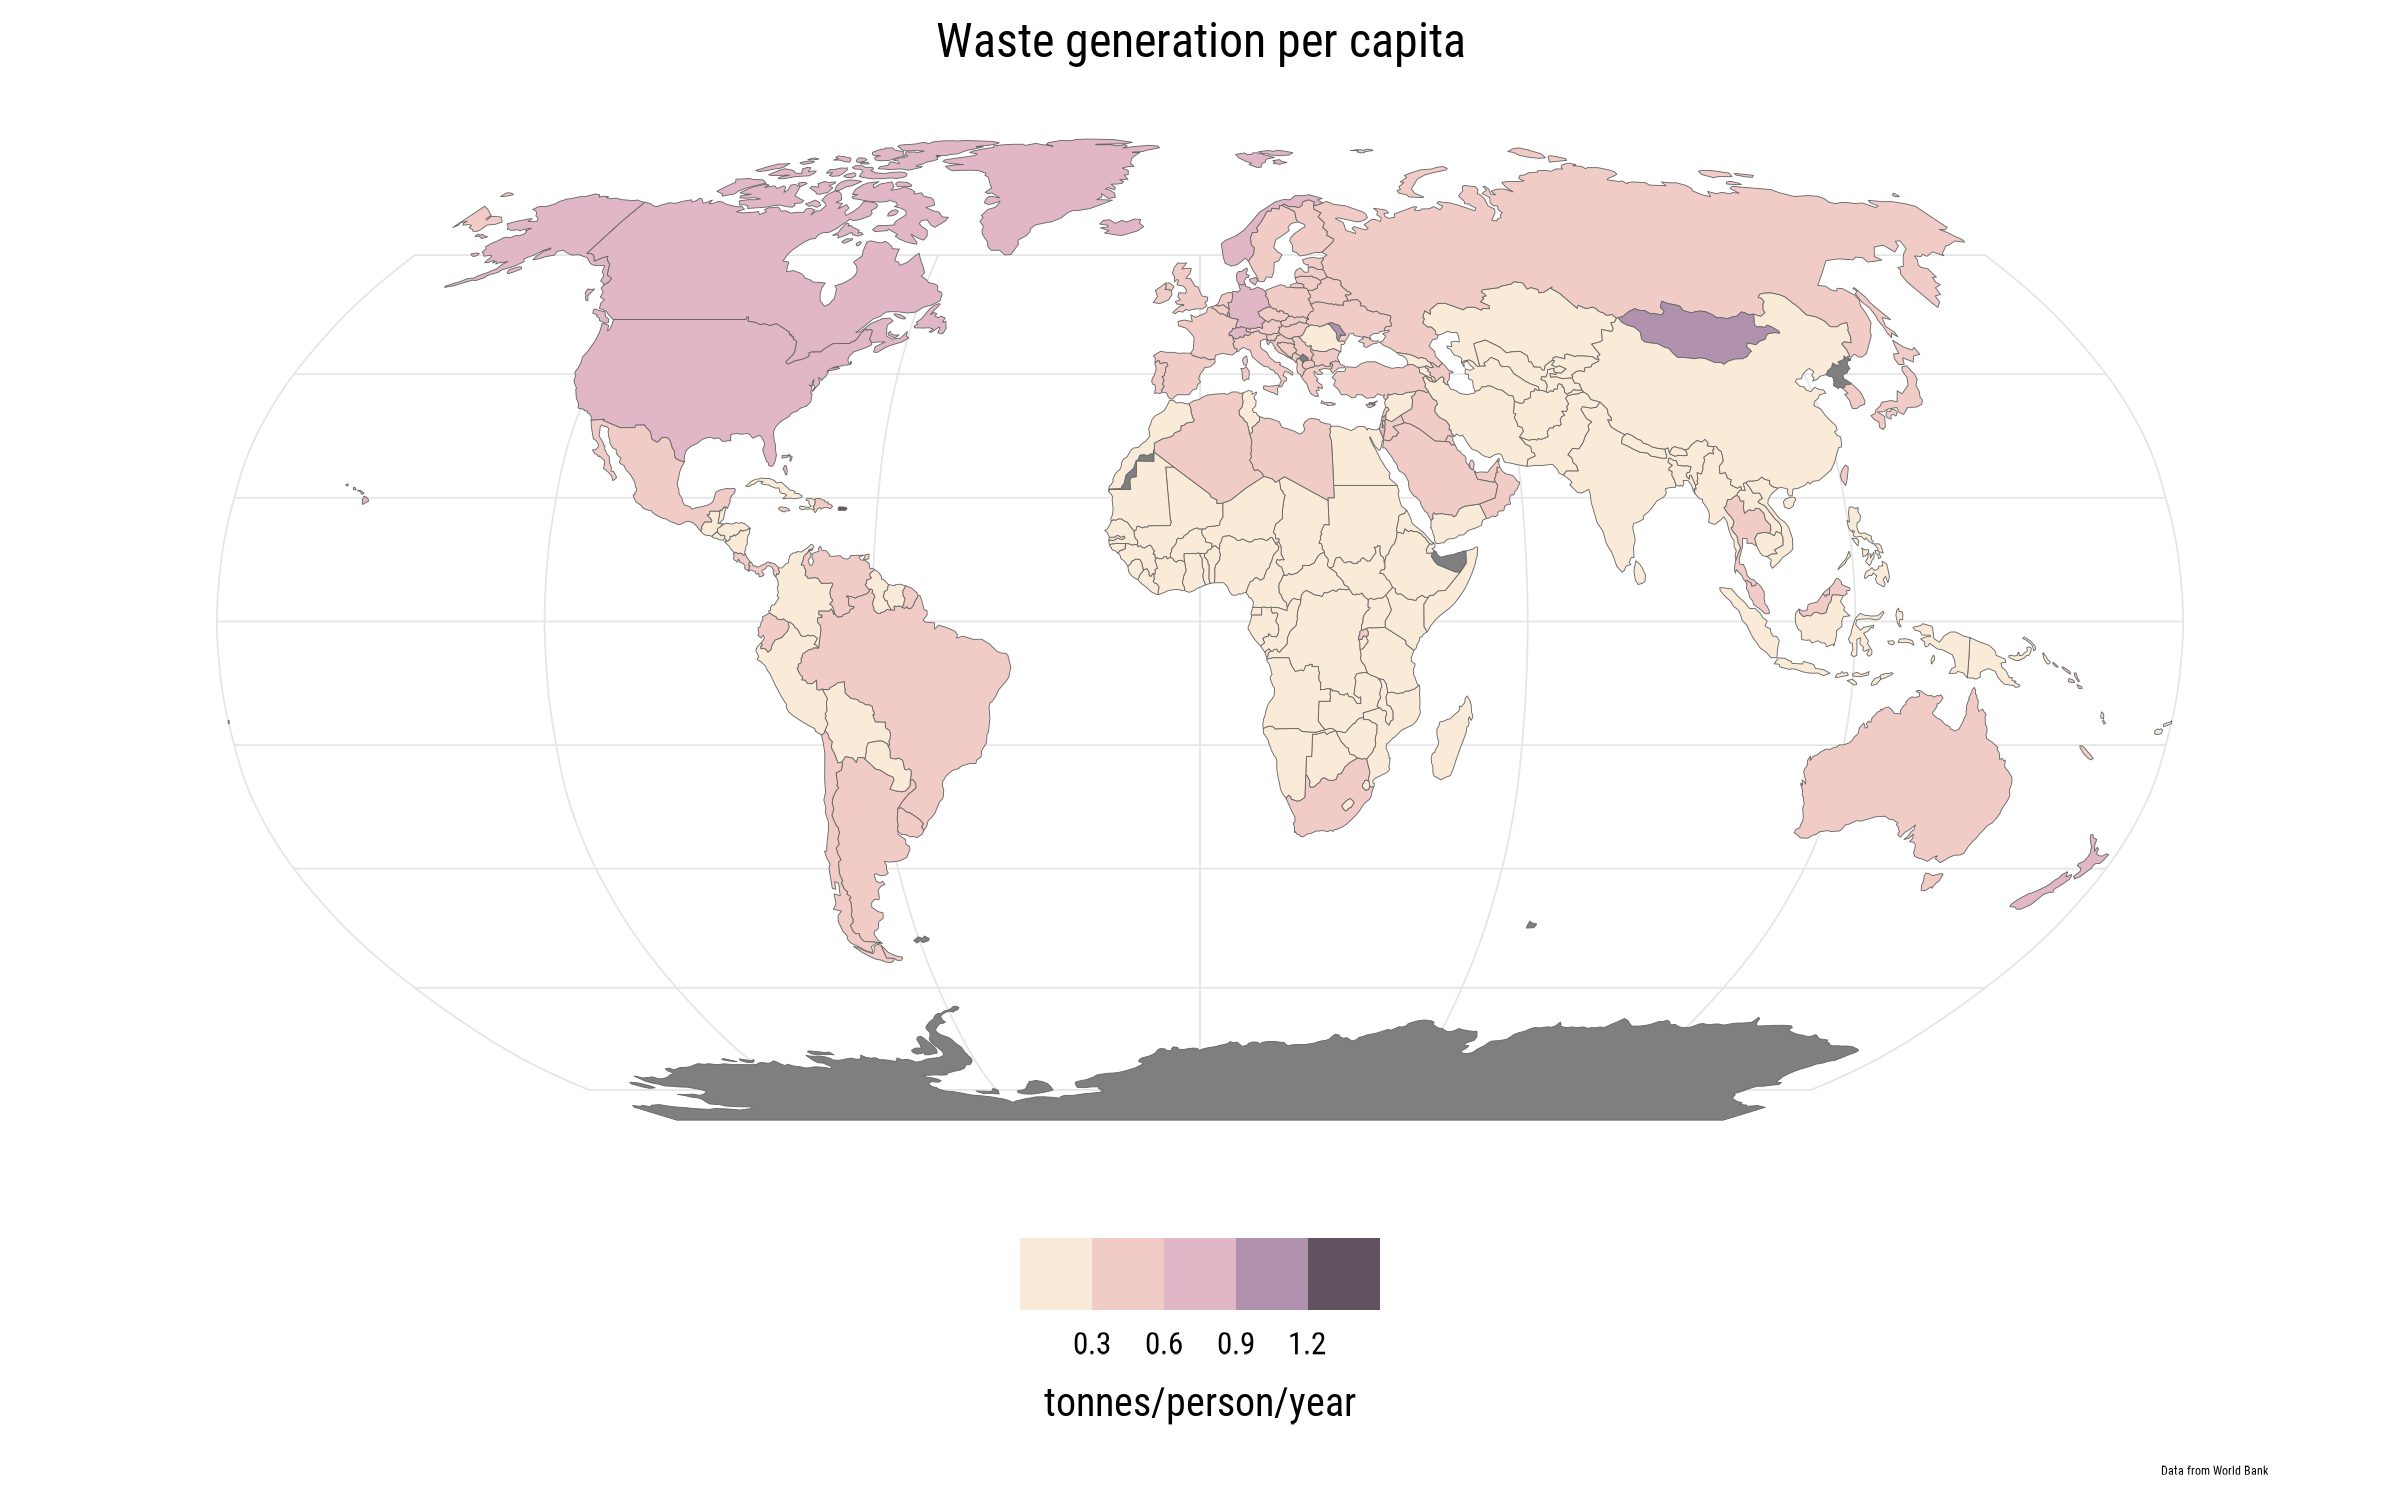
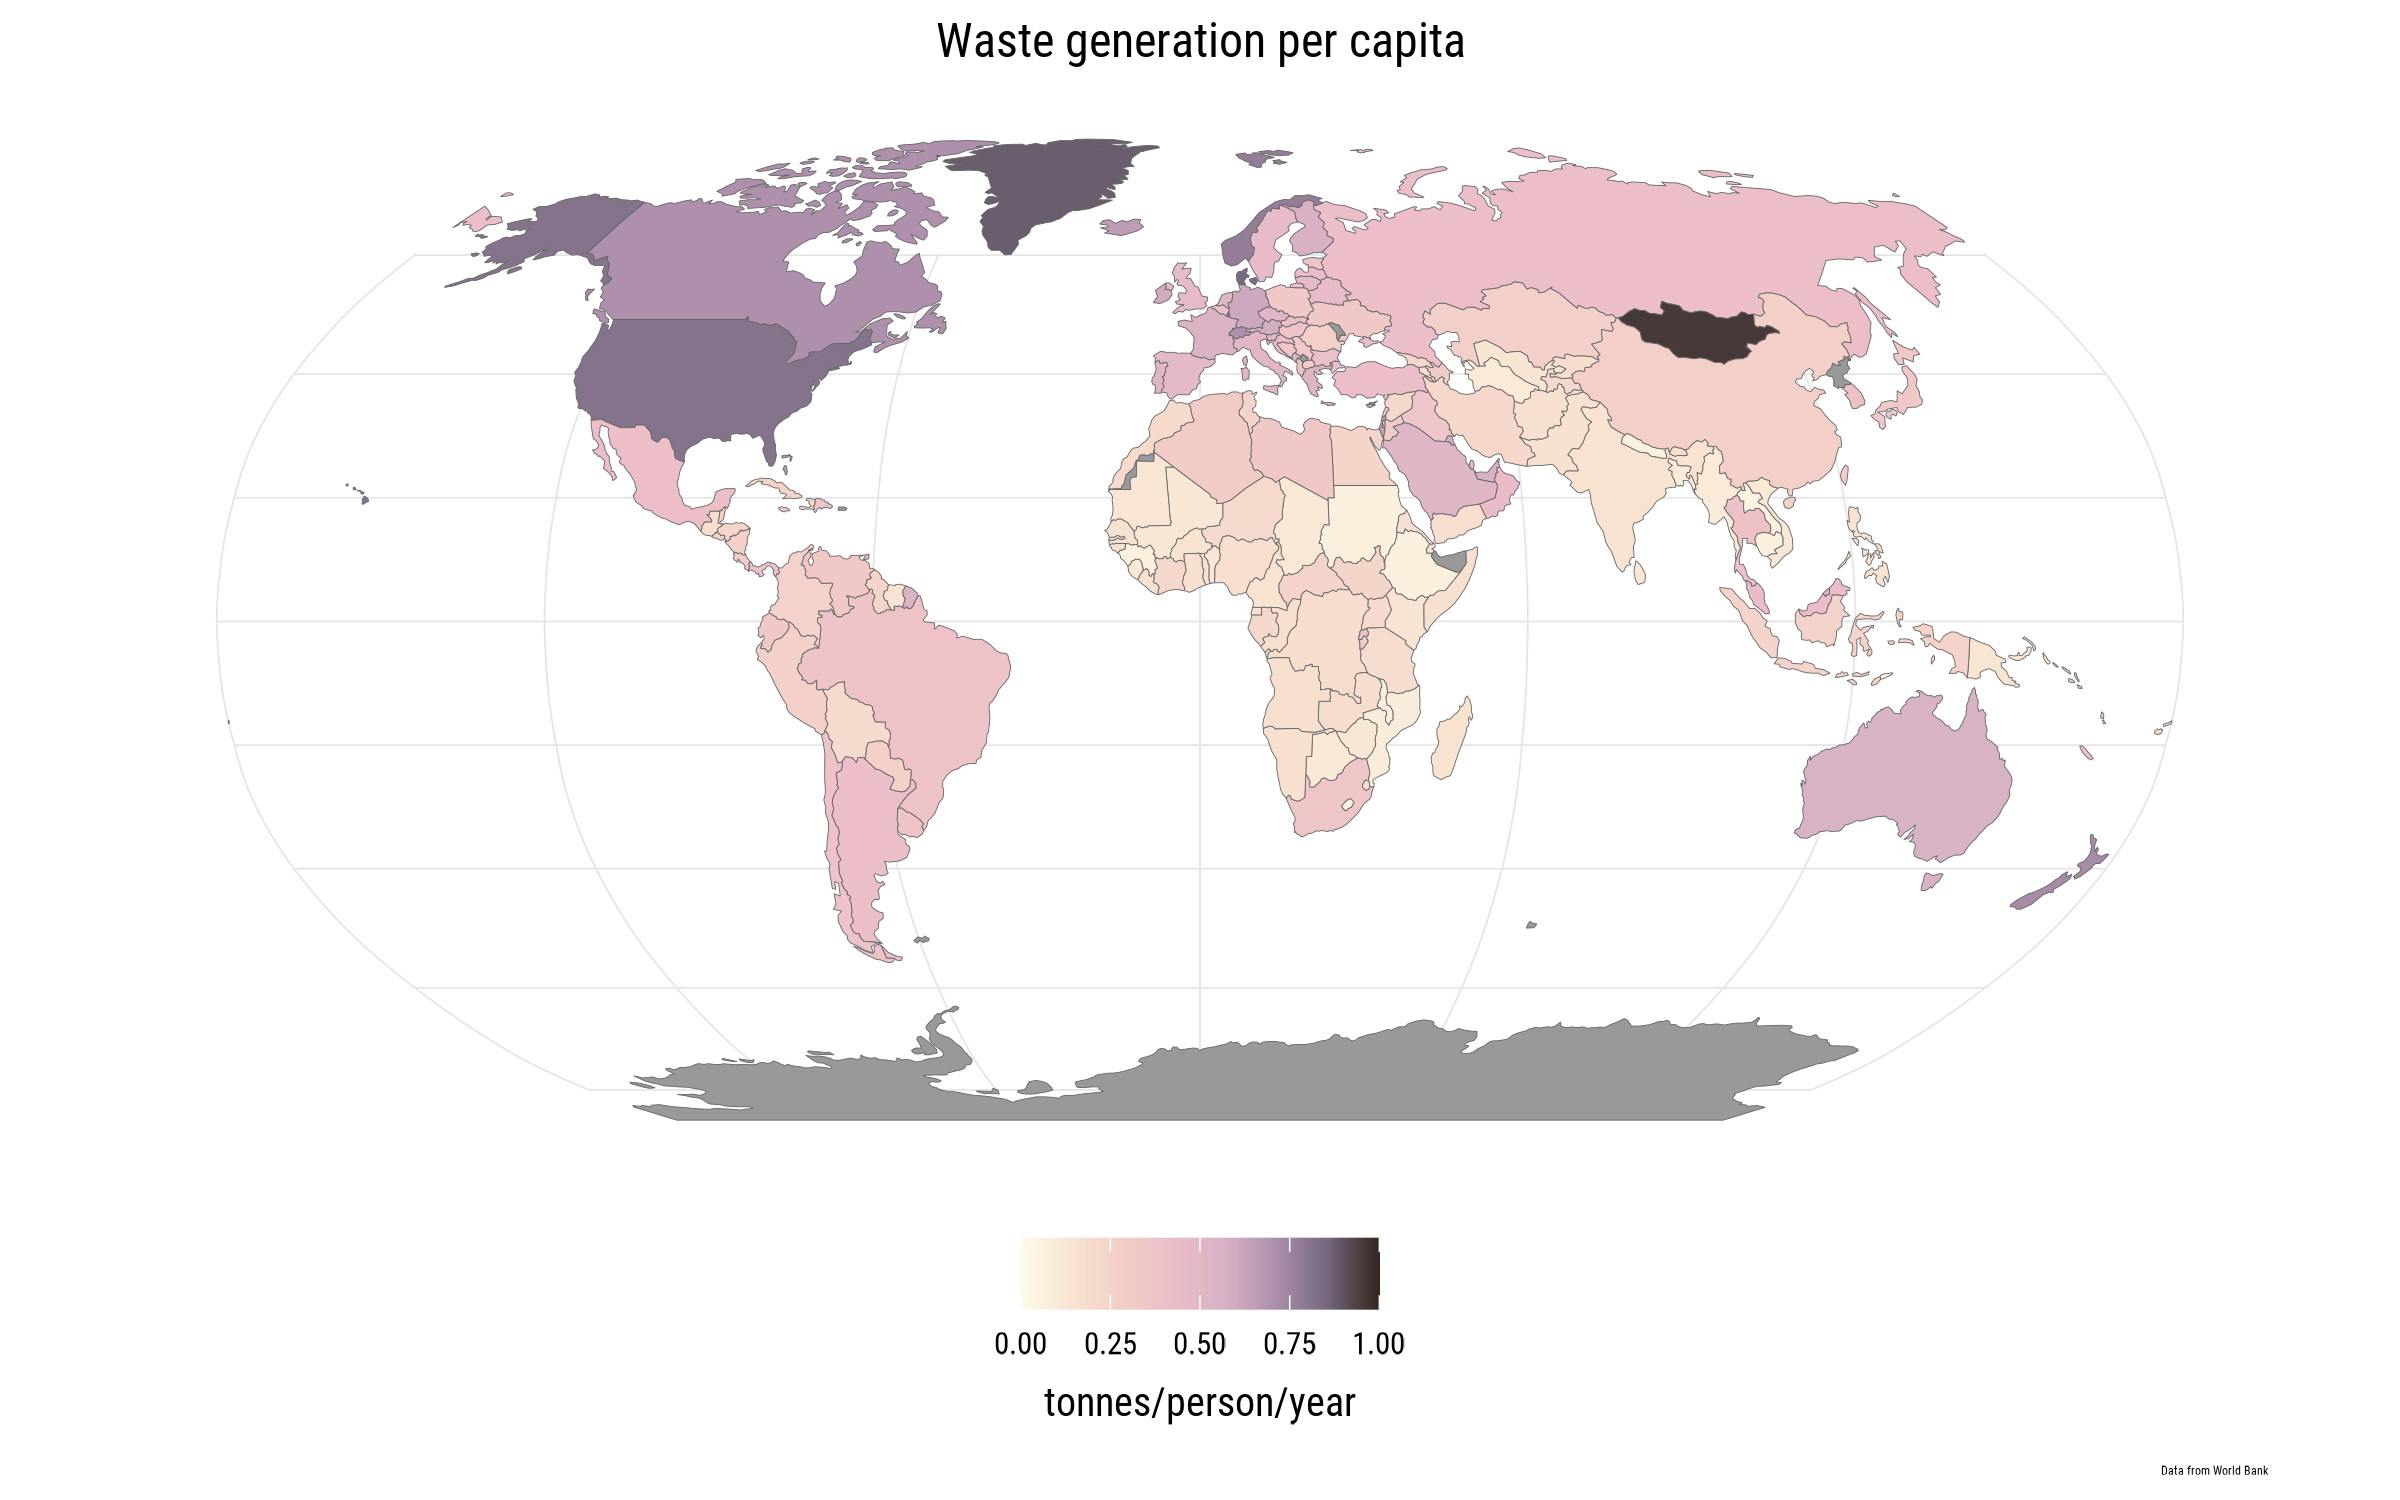
change scale

diff --git a/2025_30DayMapChallenge_files/08_Urban/08_Urban.md b/2025_30DayMapChallenge_files/08_Urban/08_Urban.md
@@ -65,7 +65,10 @@ world |>
   ggplot() + 
   geom_sf(aes(fill = waste_per_capita), color = "grey40", linewidth = 0.1) +
   coord_sf(crs = "+proj=robin") + #robinson
-  scale_fill_stepsn(colours = paletteer_d("PNWColors::Shuksan", direction = -1)) +
+  # scale_fill_stepsn(colours = paletteer_d("PNWColors::Shuksan", direction = -1), 
+  #                   limits = c(0,1), na.value = "grey60", n.breaks = 8) +
+  scale_fill_gradientn(colours = paletteer_d("PNWColors::Shuksan", direction = -1),
+                    limits = c(0,1), na.value = "grey60") +
   theme_minimal(base_family = "roboto_condensed") +
   theme(axis.text = element_blank(),
         panel.grid.major = element_line(color = "grey90", linewidth = 0.2),
@@ -74,7 +77,8 @@ world |>
         legend.title = element_text(hjust = 0.5),
         plot.title = element_text(hjust = 0.5),
         title = element_text(size = 30),
-        legend.text = element_text(size = 23)) + 
+        legend.text = element_text(size = 23)
+        ) + 
   labs(fill = "tonnes/person/year",
        title = "Waste generation per capita",
        caption = "Data from World Bank")
